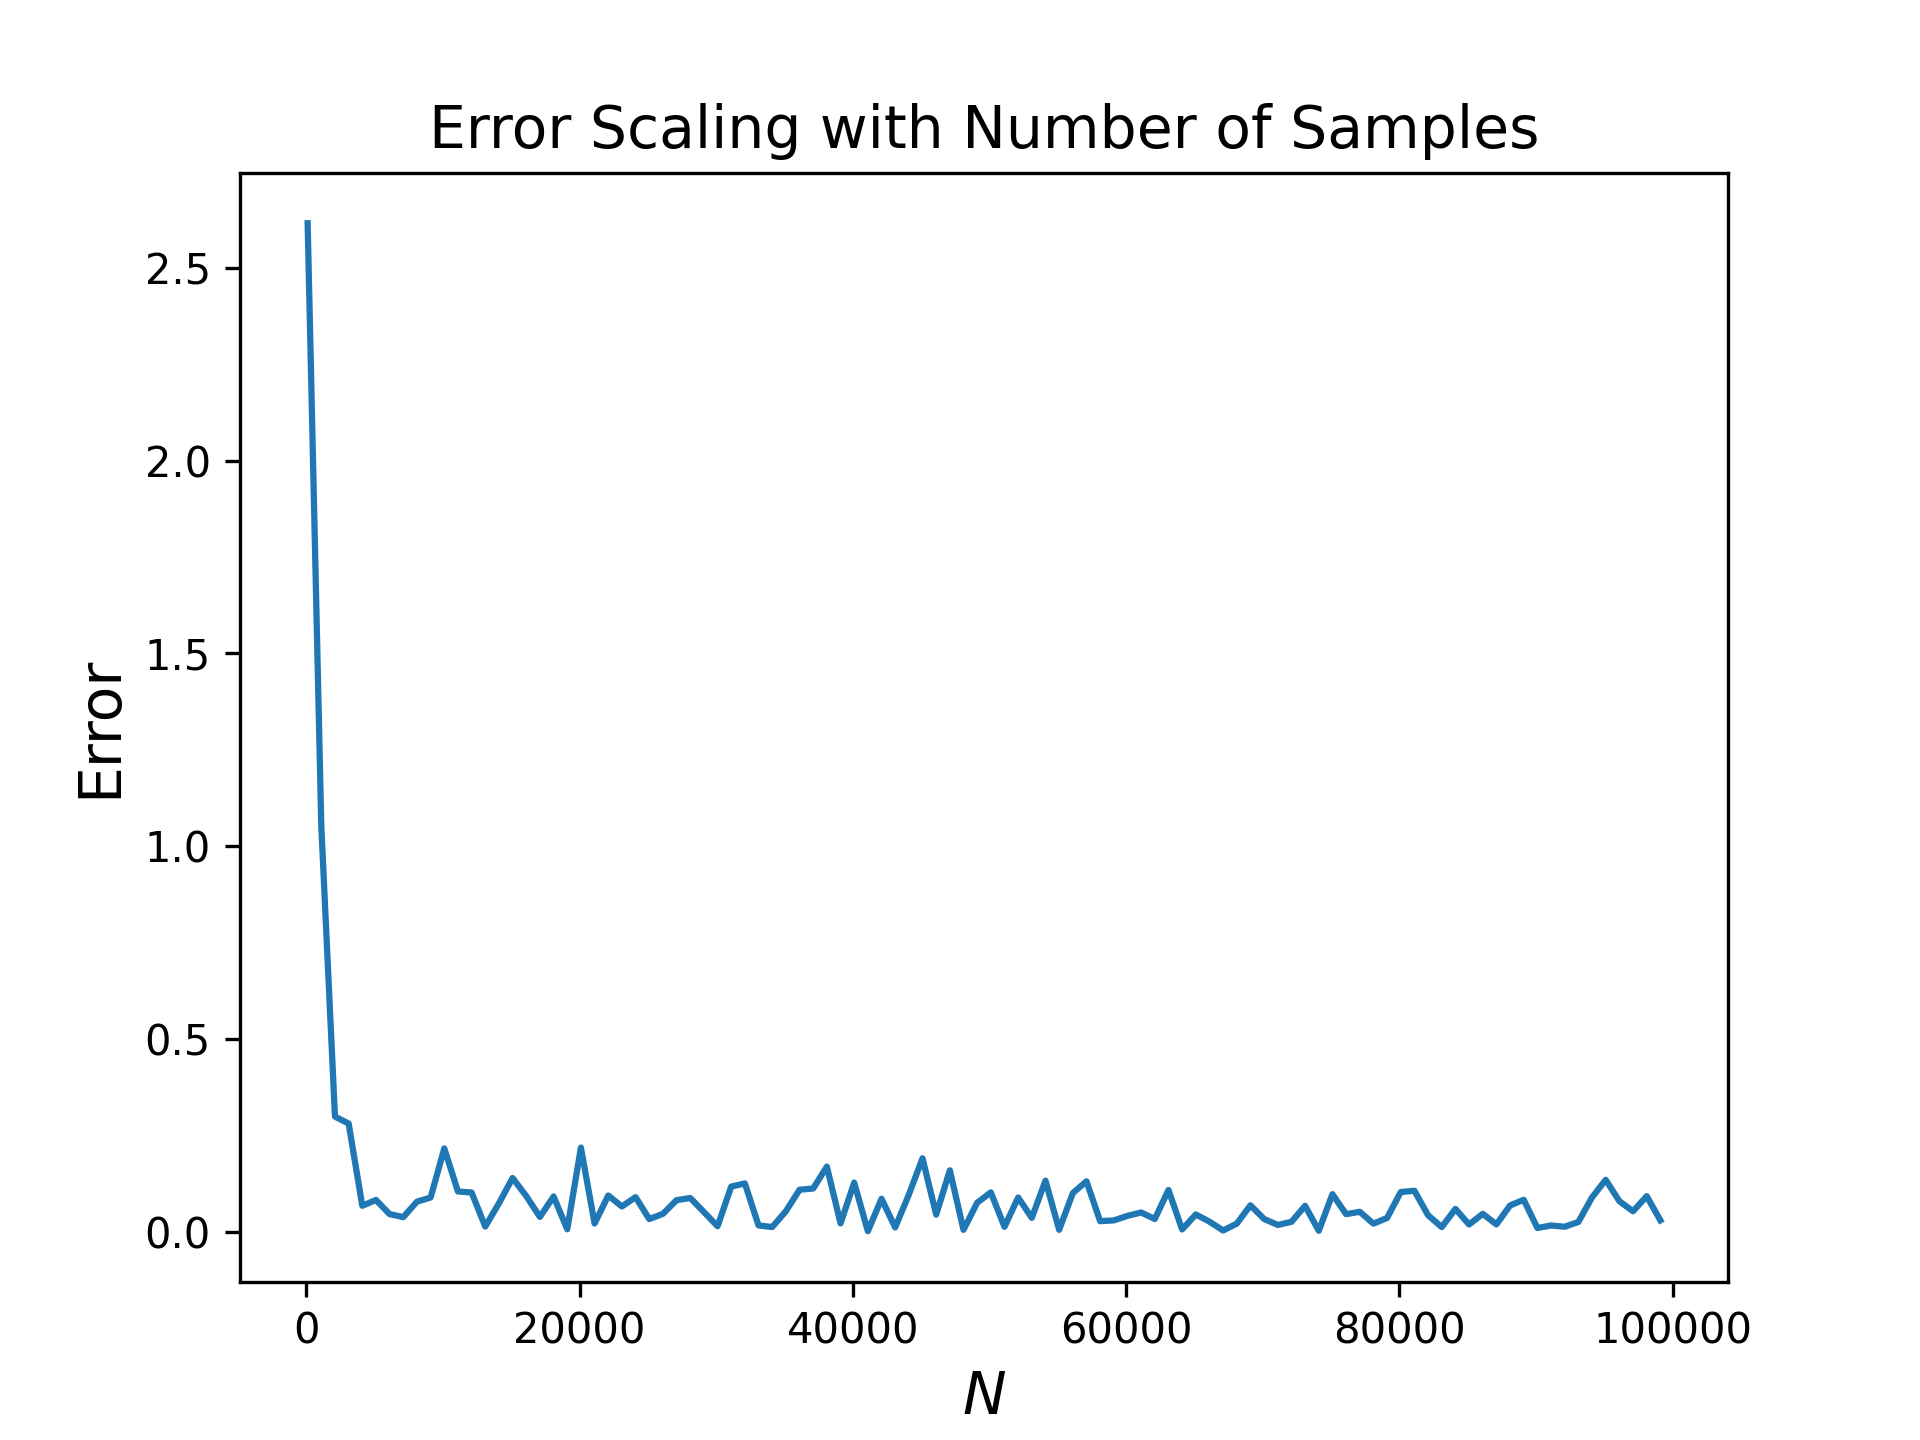
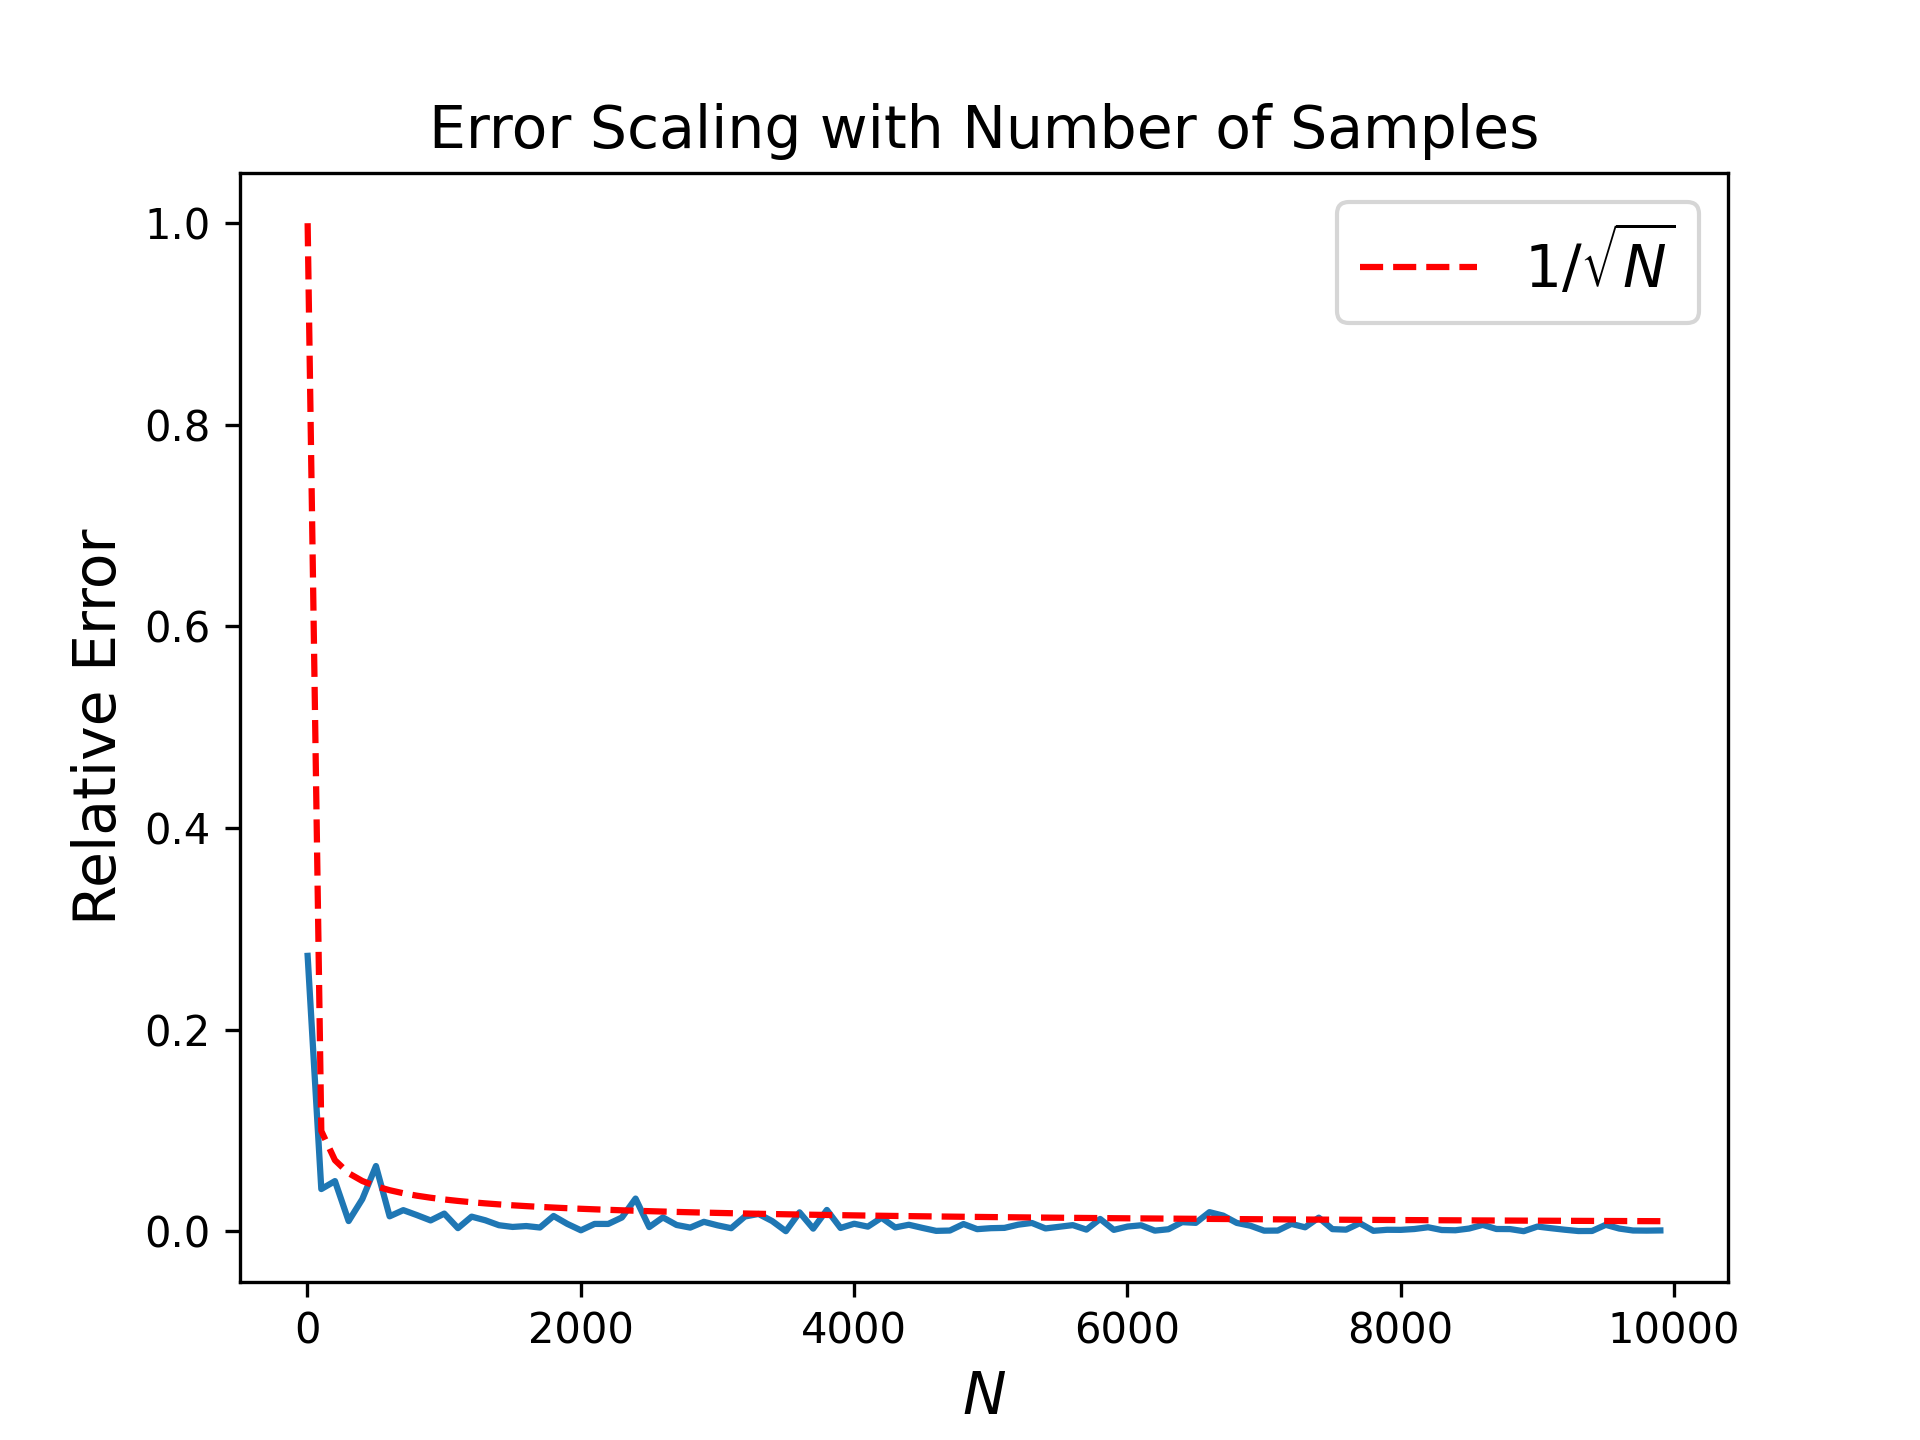
prettified plot, added routine to calculate circumference (unfinished)

diff --git a/monte_carlo.py b/monte_carlo.py
@@ -25,22 +25,29 @@ print("Computed Value: ",integrate(ellipse,10000))
 print("Analytic Value: ",np.pi*5*2)
 
 
-N = np.arange(100,100000,1000) #
+N = np.arange(1,10000,100) #
 int_val = np.zeros(len(N))
 
 analytic_val = np.pi * 5 * 2
 for i in range(len(N)):
     int_val[i] += integrate(ellipse,N[i])
 
-plt.plot(N, np.abs(int_val-analytic_val))
+plt.plot(N, np.abs(int_val-analytic_val)/analytic_val)
+plt.plot(N, 1/np.sqrt(N),label=r"$1/\sqrt{N}$",linestyle='dashed',color='red')
 plt.xlabel(r"$N$", fontsize=14)
-plt.ylabel("Error", fontsize=14)
+plt.legend(fontsize=14)
+plt.ylabel("Relative Error", fontsize=14)
 plt.title("Error Scaling with Number of Samples",fontsize=14)
 plt.savefig("integral_error_scaling.png", dpi=300)
+plt.clf()
 
-################## FINDING CIRCUMFERENCE ##################
-ellipse_2 = lambda x: ellipse(x,5-0.00001, 2-0.00001)
-
+################## FINDING CIRCUMFERENCE #################
+epsilon = 0.1
+ellipse_2 = lambda x: ellipse(x, 5-epsilon, 2-epsilon)
+x = np.linspace(0,5,1000)
+plt.plot(x,ellipse(x))
+plt.plot(x,ellipse_2(x))
+plt.show()
 def circumference_estimate(f1,f2, N):
     hits = 0 #number of points inside area
     for i in range(N):
